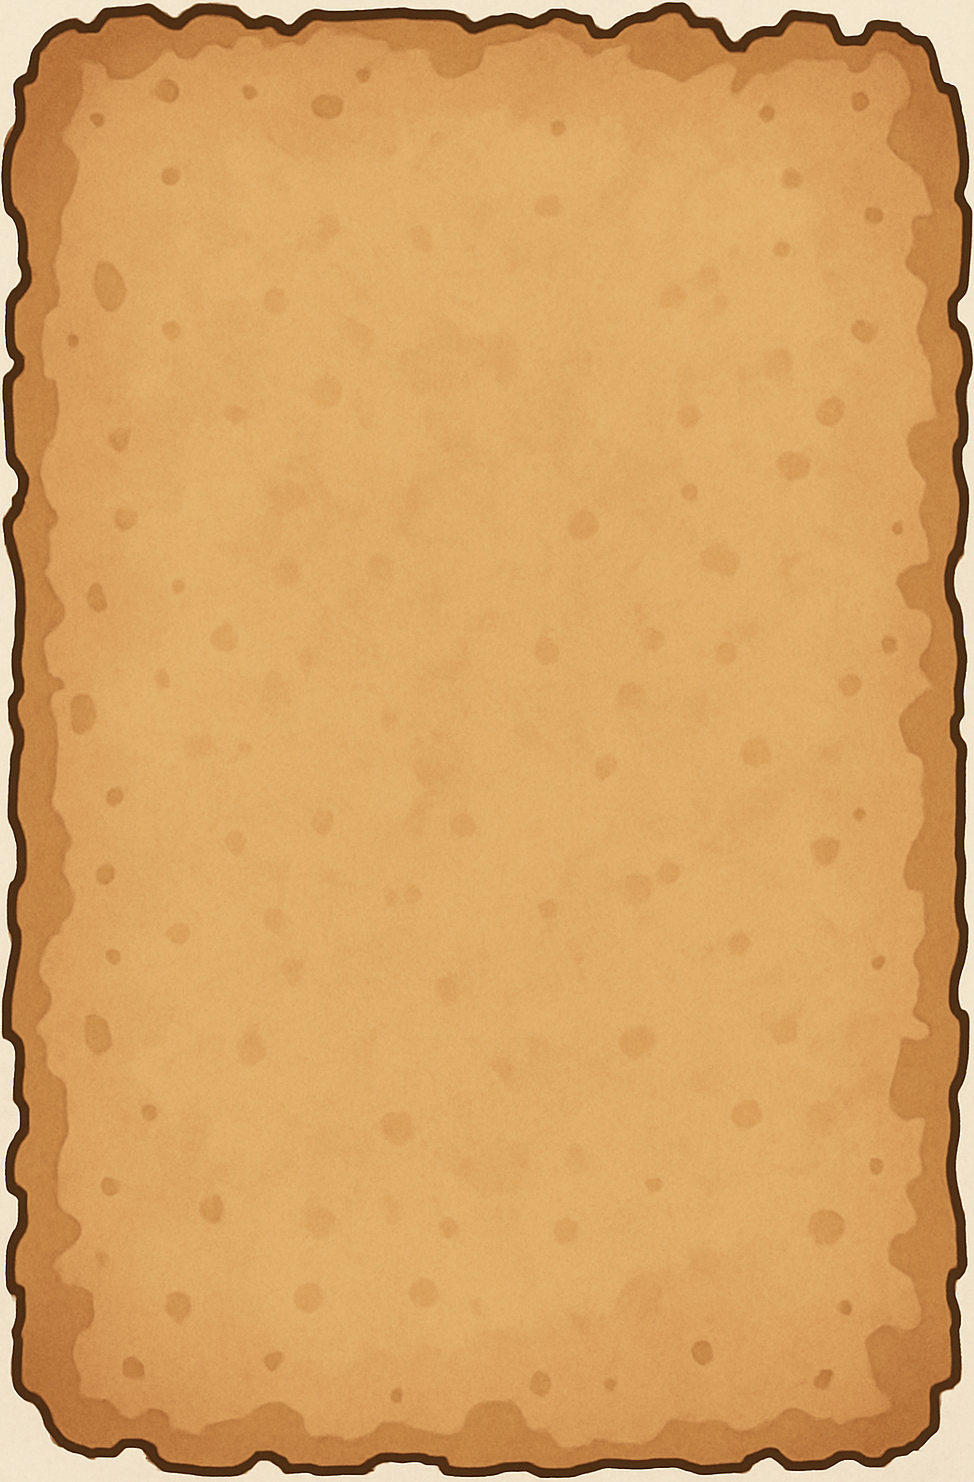
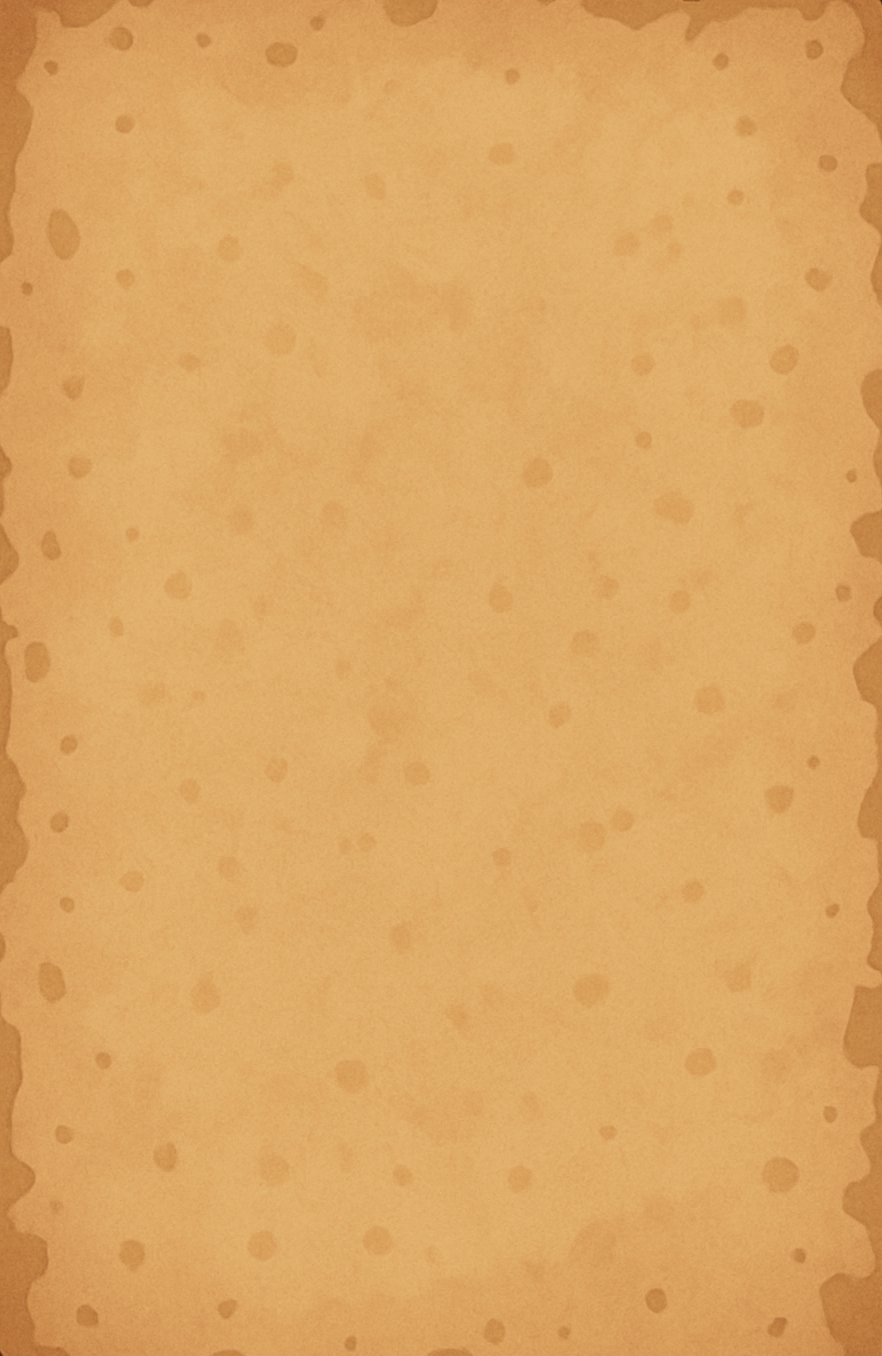
finalizando cartamissao

diff --git a/src/app/cartas/missao/page.tsx b/src/app/cartas/missao/page.tsx
@@ -2,30 +2,67 @@
 
 import './missao.css';
 import { useState } from 'react';
-import { AiFillExperiment, AiFillHourglass, AiFillOpenAI, AiFillSignal, AiOutlineClockCircle } from "react-icons/ai";
-import { SiAeromexico } from "react-icons/si";
 import html2canvas from 'html2canvas';
 import Pagina from '@/components/pagina';
-import Image from 'next/image';
-import borda from '@/res/borda_magia.png';
 import Input from '@/components/input';
 import TextArea from '@/components/textearea';
 import { IoLeafSharp } from 'react-icons/io5';
-import { GiReceiveMoney } from 'react-icons/gi';
+import { GiBoxingGlove, GiReceiveMoney } from 'react-icons/gi';
+import { BiWorld } from 'react-icons/bi';
 
 // GiReceiveMoney -recomensa, tipo(BiWorld, IoLeafSharp, GiBoxingGlove), nivel AiFillSignal  
 
 export default function CartaMagia(){
 
+  function onTipo(){
+
+    switch (tipoId) {
+      case 1:
+        return <IoLeafSharp size={18}/> 
+      case 2:        
+        return <GiBoxingGlove size={18}/>       
+      default:
+        return <BiWorld size={18}/>
+    }
+     
+  }
+
+  function onRecompensa(){
+
+    if(tipoId === 1){
+      switch (recompensaNivel) {
+        case 1:
+          return '100 PO';
+        case 2: 
+          return '200 PO';
+        case 3: 
+          return '500 PO';    
+        default:
+          return '1000 PO';
+      }
+    }
+    else{
+      switch (recompensaNivel) {
+      case 1:
+        return '50 PO';
+      case 2: 
+        return '100 PO';
+      case 3: 
+        return '200 PO';    
+      default:
+        return '300 PO';
+    }
+    }
+    
+  }
+
   const TEXTO:string = 'Lorem ipsum dolor sit amet, consectetur adipiscing elit. Phasellus pulvinar arcu nibh, vel mattis sapien vestibulum ac. Sed dictum eu elit quis pharetra. Vestibulum vel nibh sed dolor placerat facilisis. Sed tincidunt placerat mattis. Vivamus pulvinar nisl eleifend purus imperdiet, ultricies porta nisi convallis. Cras tincidunt neque id feugiat sodales. Morbi enim odio, molestie convallis est vitae, iaculis fermentum nisi.';
   
-  const [titulo, setTitulo]            = useState<string>('Coletar Extrato de Cocatriz');
+  const [titulo, setTitulo]            = useState<string>('Título');
   const [descricao, setDescricao]      = useState<string>(TEXTO);
-  const [tipo, setTipo]                = useState<number>(0);
-  const [tipoDescricao, setTipoDescricao] = useState<string>('Conclave do Outono');
-  const [recompensa, setRecompensa]    = useState<string>('Poção de Cura');
-  const [nivelRecompensa, setNivelRecompensa]    = useState<number>(1);
-
+  const [tipoId, setTipoId]            = useState<number>(0);
+  const [recompensaAdicional, setRecompensa]    = useState<string>('Recompensa adicional');
+  const [recompensaNivel, setNivelRecompensa]   = useState<number>(1);
   
   async function onClickGerarImagem(){
     const div = document.getElementById('cartas');
@@ -37,7 +74,7 @@ export default function CartaMagia(){
     // Criar link para download
     const link = document.createElement('a');
     link.href = dataURL;
-    link.download = 'carta-magia.png';
+    link.download = 'carta-missao.png';
     link.click();
   }
 
@@ -53,32 +90,30 @@ export default function CartaMagia(){
 
               <div className='cs-frente texto-script'>
 
-                <div className='cs-topo'>
-                  <label>{titulo}</label>  
-
-                  <div className='cs-tp-tipo'>
-                    <IoLeafSharp size={12}/>
-                    <label>- {tipoDescricao}</label>
-                  </div>
-               
-                </div>
-
-                <div className='cs-conteudo'>
-                  <div className='cs-ct-recompensa'>
-                    
-
-                    <div className='cs-tp-tipo'>
-                      <AiFillSignal size={12}/>
-                      <label>- {tipoDescricao}</label>
+                <section className='cs-topo'>
+                  
+                  <div className='cs-tp-titulo'>
+                    <div className='cs-circulo'>
+                      {onTipo()}  
                     </div>
+                    
+                    <label>{titulo}</label>  
+                  </div>            
 
-                    <label>{recompensa}</label>  
-                  </div>
+                  <div className='cs-tp-recompensa'>
+                   
+                    <div className='cs-circulo'>
+                      <GiReceiveMoney size={18}/>
+                    </div>
+                    <label>{onRecompensa()} - {recompensaAdicional}</label>             
 
-                  <div className='cs-ct-descricao'>
-                    {descricao}
-                  </div>
-                </div>
+                  </div>      
+
+                </section>
+
+                <section className='cs-conteudo'>
+                  <article>{descricao}</article> 
+                </section>
                 
               </div>
             </div>
@@ -87,12 +122,29 @@ export default function CartaMagia(){
 
         <div className='cs-div-edicao'>
 
-          <Input titulo='Título' value={titulo} onChange={setTitulo} placeholder='Título'/>            
-          <Input titulo='Tipo' type='number' value={tipo} onChange={setTipo} placeholder='Tipo'/> {/* combobox*/}           
-          <Input titulo='Nível Recompensa' type='number' value={nivelRecompensa} onChange={setNivelRecompensa} placeholder='Nível Recompensa'/>  {/* combobox*/}                
-          <Input titulo='Recompensa' value={recompensa} onChange={setRecompensa} placeholder='Recompensa'/>            
+          <Input titulo='Título' value={titulo} onChange={setTitulo} placeholder='Título'/>      
+          <div className="cbx-div-edit">
+            <label>Tipo Missão</label>
+            <select id="meu-combo" className="cbx-edit" value={tipoId} onChange={(e)=>{setTipoId(Number(e.target.value) )}}>
+              <option value="">Selecione...</option>
+              <option value={1}>Conclave do Outono</option>
+              <option value={2}>Quebra-Queixo</option>
+              <option value={3}>Mundo</option>
+            </select>
+          </div>                
+          <div className="cbx-div-edit">
+            <label>Nível Reconpensa</label>
+            <select id="meu-combo" className="cbx-edit" value={recompensaNivel} onChange={(e)=>{setNivelRecompensa(Number(e.target.value) )}}>
+              <option value="">Selecione...</option>
+              <option value={1}>Nível 1</option>
+              <option value={2}>Nível 2</option>
+              <option value={3}>Nível 3</option>
+              <option value={4}>Nível 4</option>
+            </select>
+          </div>
+          <Input titulo='Recompensa' value={recompensaAdicional} onChange={setRecompensa} placeholder='Recompensa'/>            
           <TextArea titulo='Descrição' value={descricao} onChange={setDescricao}/>
-            
+
           <div>
             <button type="button" onClick={onClickGerarImagem} className="cs-botao" >
               Gerar Imagem

diff --git a/src/app/cartas/missao/missao.css b/src/app/cartas/missao/missao.css
@@ -19,10 +19,7 @@
 }
 
 .cs-cor{
-  background-image: url('../../../res/bg-missao2.png');
-  background-size: cover;       /* Ajusta a imagem para cobrir toda a div, ou contain */
-  background-position: center;  /* Centraliza a imagem */
-  background-repeat: no-repeat; /* Evita que a imagem se repita */
+  background: rgb(70, 59, 37);  
 }
 
 .cs-frente{
@@ -33,60 +30,58 @@
   flex-direction: column;
   gap: 2px;
   color: black;
+  border-radius: 4px;
+  background-image: url('../../../res/bg-missao.png');
+  background-size: cover;       /* Ajusta a imagem para cobrir toda a div, ou contain */
+  background-position: center;  /* Centraliza a imagem */
+  background-repeat: no-repeat; /* Evita que a imagem se repita */
 }
 
 .cs-topo{
   width: 100%;
-  height: 15%;
   padding: 2px;
   display: flex;
-  flex-direction: column;
-  justify-content: center;
   align-items: center;
-  /* background: slategray; */
+  gap: 2px;  
+  flex-direction: column;
 }
 
-.cs-tp-tipo{
+.cs-circulo{
+  padding: 2px;
+  border-radius: 50%;
+  border: 2px solid black;
   display: flex;
-  gap: 2px;
-  justify-items: center;
-  align-items: center;
+}
+
+.cs-tp-titulo{
   width: 100%;
-  border-top: 1px solid black;
-  border-bottom: 1px solid black;
+  display: flex;
+  align-items: center;
+  justify-content: start;
+  gap: 4px;
+  font-size: large;
 }
 
 .cs-conteudo{
   width: 100%;
   height: 100%;
-  border-radius: 2px;
   padding: 2px;  
-  /* background: yellow; */
-}
-
-.cs-ct-recompensa{
-  width: 100%;
-  height: 15%;
-  border-radius: 2px;
-  padding: 2px;  
-  /* background: red; */
-}
-
-.cs-ct-descricao{
-  width: 100%;
-  height: 85%;
-  border-radius: 2px;
-  padding: 2px; 
-  /* background: blue;  */
-}
-
-.cs-me-article{
-  color: var(--cor-fundo);
+  font-size: 15px;
   text-align: justify;
-  font-size: 12px;
   white-space: pre-wrap;  
   overflow: hidden;
   text-overflow: none;
+  border-top: 1px solid black;
+}
+
+.cs-tp-recompensa{
+  width: 100%;
+  border-radius: 2px;
+  padding: 2px;  
+  gap: 2px;
+  display: flex;
+  align-items: center; 
+  font-size: small; 
 }
 
 .cs-botao{
@@ -112,6 +107,34 @@
   width: 100%;
   margin-bottom: 8px;
 }
+
+.cbx-div-edit{
+  width: 100%;
+  height: 55px;
+  margin-bottom: 10px;
+  display: flex;
+  flex-direction: column;
+}
+
+.cbx-edit{
+  border: 1px solid rgba(0, 0, 0, 0.2); /* Contorno suave */
+  border-radius: 8px; /* Cantos arredondados */
+  padding: 10px 15px; /* Espaçamento interno */
+  font-size: 16px; /* Tamanho da fonte */
+  outline: none; /* Remove o contorno padrão ao focar */
+  transition: all 0.3s ease-in-out; /* Suaviza transições */
+  width: 100%;
+  margin-top: 2px;
+  font-size: 16px;  
+  background-color: var(--cor-backgroud);
+  color: white;
+}
+
+.cbx-edit:focus {
+  border-color:  var(--cor-primaria); /* Cor do contorno ao focar */
+  box-shadow: 0 4px 8px rgba(0, 0, 0, 0.1); /* Efeito de leve sombra */
+}
+
 
 @media screen and (max-width: 600px)  {
   .cs-div-carta{

diff --git a/src/app/cartas/magia/page.tsx b/src/app/cartas/magia/page.tsx
@@ -58,13 +58,13 @@ export default function CartaMagia(){
                     </div>
                   </div>
 
-                  <div className='ci-me-div-titulo'>
+                  <div className='cm-me-div-titulo'>
 
                     <div className='cm-titulo-fundo texto-script '>
                       <label>{titulo}</label>
                     </div>
 
-                    <div className='ci-me-titulo-ponta'/>
+                    <div className='cm-me-titulo-ponta'/>
                   </div>
                 </div>
 
@@ -130,7 +130,7 @@ export default function CartaMagia(){
           <Input titulo='Componentes' value={componentes} onChange={setComponentes} placeholder='Componentes'/>
           
           <div>
-            <button type="button" onClick={onClickGerarImagem} className="cc-botao" >
+            <button type="button" onClick={onClickGerarImagem} className="cm-botao" >
               Gerar Imagem
             </button>
           </div>

diff --git a/src/app/cartas/magia/magia.css b/src/app/cartas/magia/magia.css
@@ -194,7 +194,7 @@
   text-overflow: none;
 }
 
-.cc-botao{
+.cm-botao{
   background-color: var(--cor-secundaria);
   padding: 10px;
   border-radius: 4px;
@@ -203,7 +203,7 @@
   color: white;
 }
 
-.cc-botao:hover{
+.cm-botao:hover{
   background-color: var(--cor-secundaria-selecionada);
 }
 
@@ -218,7 +218,7 @@
   margin-bottom: 8px;
 }
 
-.ci-me-div-titulo{
+.cm-me-div-titulo{
   position: relative;
   display: flex;
   z-index: 1;
@@ -232,7 +232,7 @@
   margin-right: 2px;
 }
 
-.ci-me-titulo-ponta{
+.cm-me-titulo-ponta{
   transform: rotate(-45deg); /* Rotação em graus */
   height: 28px;
   width: 28px;
